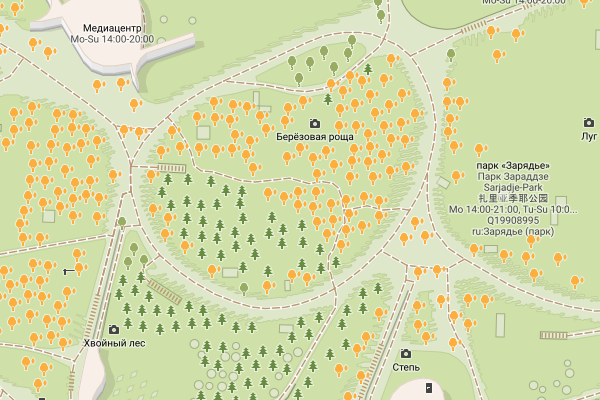
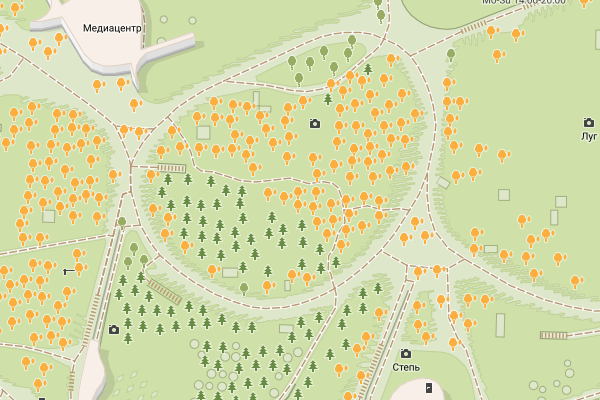
Fix nodes drawing order.
Now drawing order is as follows:
  1. Draw main icons.
  2. Draw extra icons.
  3. Draw captions.

diff --git a/roentgen/mapper.py b/roentgen/mapper.py
@@ -234,17 +234,33 @@ class Painter:
                 self.flinger.size[0], self.flinger.size[1], self.overlap)
 
         nodes = sorted(constructor.nodes, key=lambda x: -x.priority)
+        steps: int = len(nodes)
+
         for index, node in enumerate(nodes):  # type: int, Point
             if (node.get_tag("natural") == "tree" and
                     ("diameter_crown" in node.tags or
                      "circumference" in node.tags)):
                 continue
-            ui.progress_bar(index, len(nodes), step=10, text="Drawing nodes")
-            node.draw_shapes(self.svg, occupied)
+            ui.progress_bar(
+                index, steps * 3, step=10, text="Drawing main icons"
+            )
+            node.draw_main_shapes(self.svg, occupied)
+
+        for index, node in enumerate(nodes):  # type: int, Point
+            ui.progress_bar(
+                steps + index, steps * 3, step=10, text="Drawing extra icons"
+            )
+            node.draw_extra_shapes(self.svg, occupied)
+
+        for index, node in enumerate(nodes):  # type: int, Point
+            ui.progress_bar(
+                steps * 2 + index, steps * 3, step=10, text="Drawing texts"
+            )
             if (self.mode not in [CREATION_TIME_MODE, AUTHOR_MODE] and
                     self.draw_captions != "no"):
                 node.draw_texts(
                     self.svg, self.scheme, occupied, self.draw_captions)
+
         ui.progress_bar(-1, len(nodes), step=10, text="Drawing nodes")
 
 

diff --git a/roentgen/point.py b/roentgen/point.py
@@ -156,25 +156,26 @@ class Point(Tagged):
         self.draw_outline: bool = draw_outline
 
         self.y = 0
+        self.main_icon_painted: bool = False
 
-    def draw_shapes(self, svg: svgwrite.Drawing, occupied: Occupied):
+    def draw_main_shapes(self, svg: svgwrite.Drawing, occupied: Occupied):
         """
         Draw shapes for one node.
         """
-        painted: bool = False
         if (self.icon_set.main_icon and
                 (not self.icon_set.main_icon[0].is_default() or
                  self.is_for_node)):
             position = self.point + np.array((0, self.y))
-            painted: bool = self.draw_point_shape(
+            self.main_icon_painted: bool = self.draw_point_shape(
                 svg, self.icon_set.main_icon,
                 position, self.icon_set.color, occupied,
                 tags=self.tags)
-            if painted:
+            if self.main_icon_painted:
                 self.y += 16
 
-        if (not self.icon_set.extra_icons or
-                (self.icon_set.main_icon and not painted)):
+    def draw_extra_shapes(self, svg: svgwrite.Drawing, occupied: Occupied):
+
+        if not self.icon_set.extra_icons or not self.main_icon_painted:
             return
 
         is_place_for_extra: bool = True
